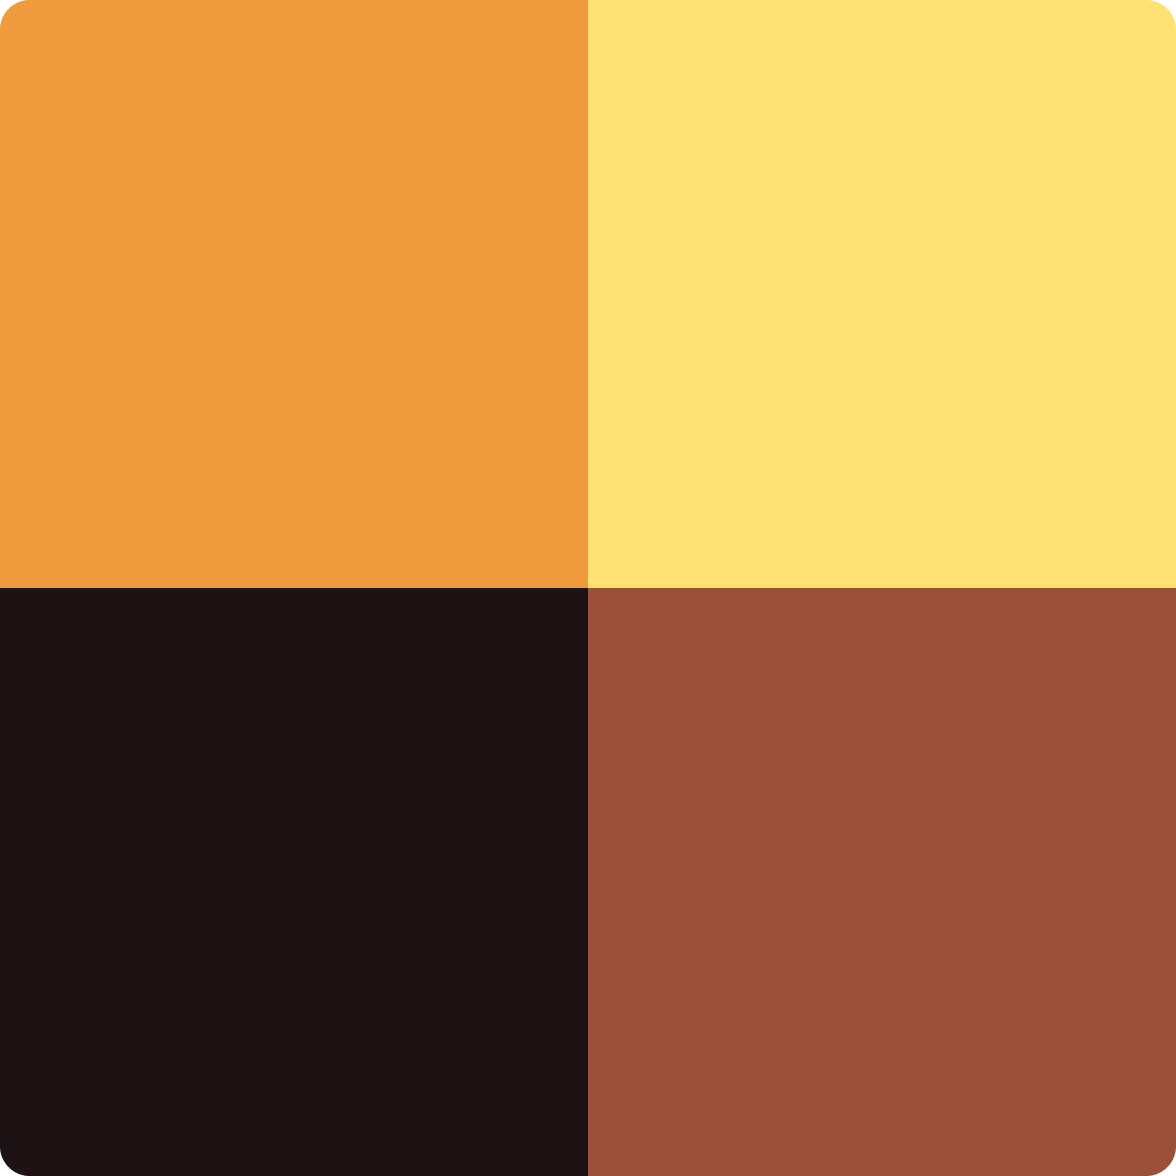
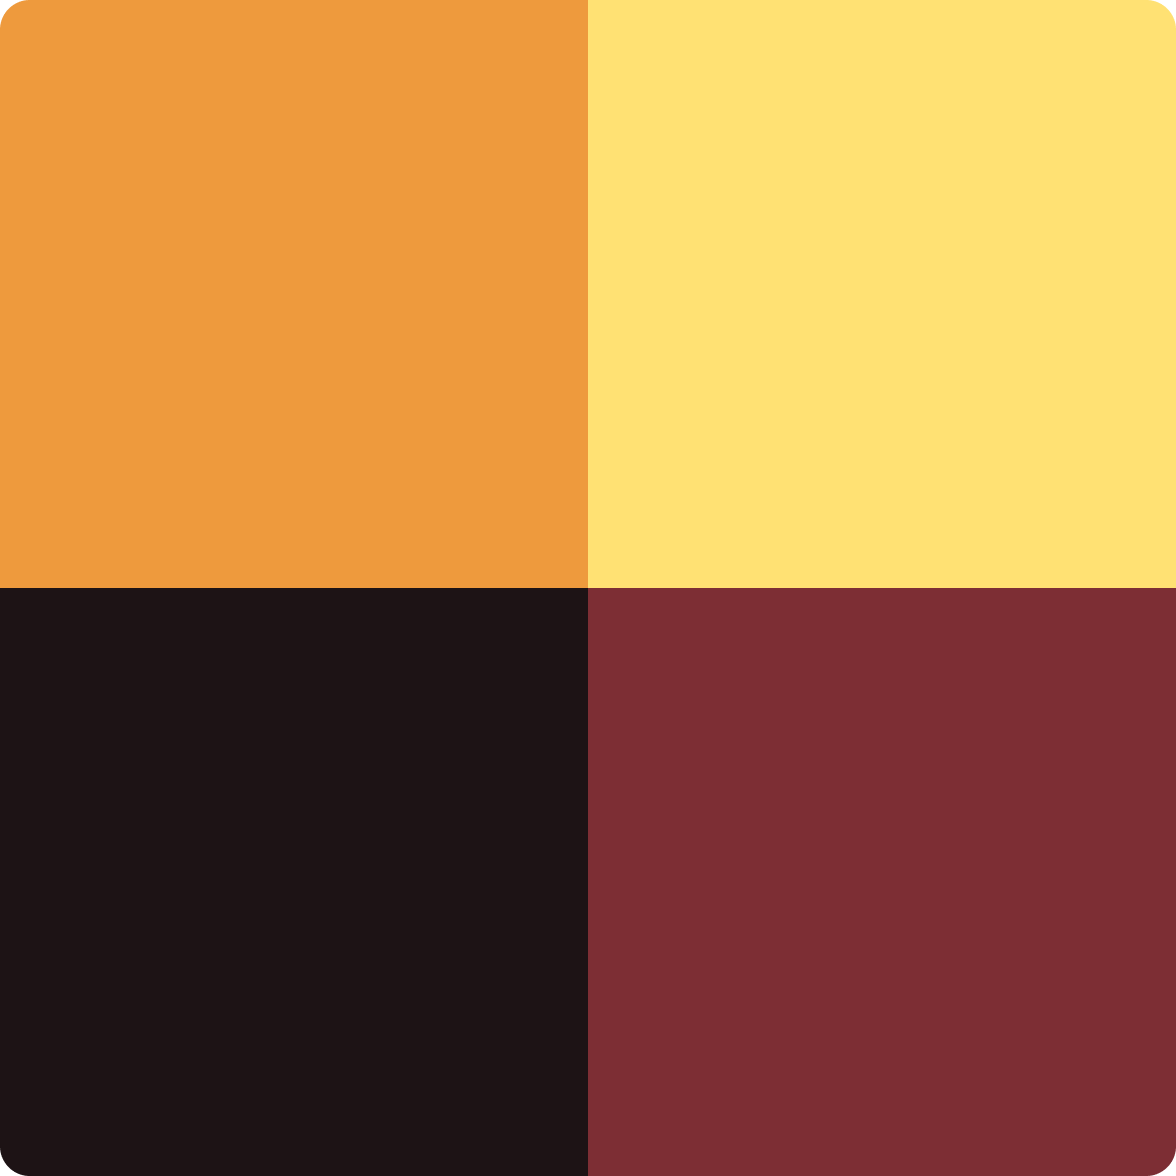
🧬

Changed region(s): [[0.4898, 0.4898, 1.0, 1.0]]

diff --git a/ресурси/ціль.css b/ресурси/ціль.css
@@ -225,9 +225,9 @@ pre, code {
   display: flex;
   align-items: center;
   justify-content: center;
-  background: #9b503a;
+  background: #7D2E34;
   color: white;
-  border: 4px solid #9b503a;
+  border: 4px solid #7D2E34;
   font-size: 1rem;
   font-weight: 500;
   text-decoration: none;
@@ -249,8 +249,8 @@ pre, code {
 
 .UiMainButton.outline {
   background: transparent;
-  border: 4px solid #9b503a;
-  color: #9b503a;
+  border: 4px solid #7D2E34;
+  color: #7D2E34;
 }
 
 .UiMainButton.outline:hover {
@@ -269,7 +269,7 @@ pre, code {
 .UiMainFooter {
   margin: 0 auto;
   margin-top: 4rem;
-  color: #9b503a;
+  color: #7D2E34;
   text-align: center;
 }
 
@@ -355,11 +355,11 @@ code {
   border-radius: 1rem;
   background: conic-gradient(
       from var(--x),
-      #9b503a,
+      #7D2E34,
       #0000 var(--a) var(--b),
       #ffe173 var(--c) var(--d),
       #0000 var(--e) var(--f),
-      #9b503a var(--g)
+      #7D2E34 var(--g)
   );
   background-color: #1d1315;
   border: 2px solid #1d1315;

diff --git a/тема/ресурси/тема.scss b/тема/ресурси/тема.scss
@@ -30,7 +30,7 @@
   --nav-text-rgb: 29, 19, 21;
   --nav-hover-rgb: 234, 225, 202;
   --nav-pressed-rgb: 224, 215, 192;
-  --nav-active-rgb: 155, 80, 58;
+  --nav-active-rgb: 125, 46, 52;
   --nav-active-text-rgb: 255, 255, 255;
 }
 
@@ -65,7 +65,7 @@ html.dark {
   --nav-text-rgb: 255, 249, 234;
   --nav-hover-rgb: 29, 19, 21;
   --nav-pressed-rgb: 39, 29, 31;
-  --nav-active-rgb: 155, 80, 58;
+  --nav-active-rgb: 125, 46, 52;
   --nav-active-text-rgb: 9, 0, 1;
 }
 
@@ -94,7 +94,7 @@ a {
 }
 
 subject, .XDocsTextSubject {
-  color: #9B503A;
+  color: #7D2E34;
   font-weight: bold;
 }
 
